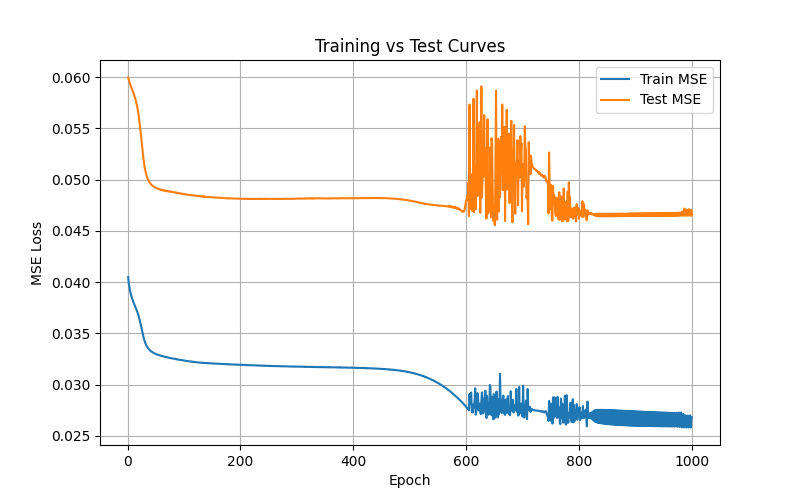
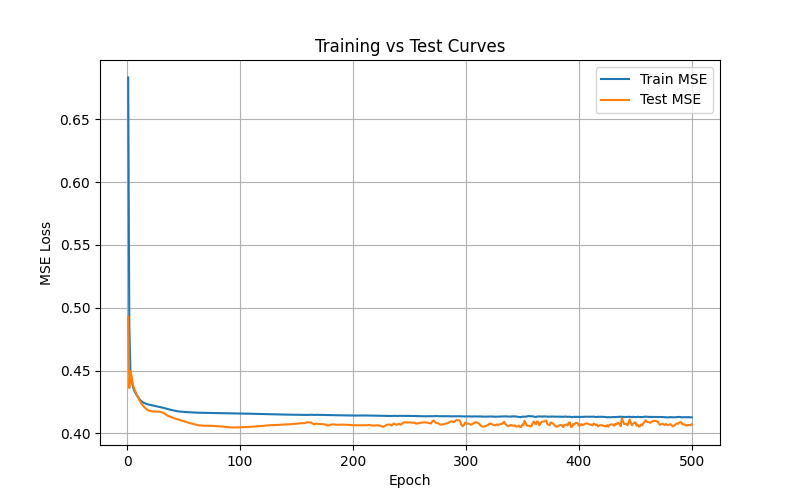
more edits

diff --git a/Week_9/behler_neural_network.py b/Week_9/behler_neural_network.py
@@ -14,6 +14,35 @@ eta_G2=0.01
 zeta_G2=1.0
 lambda_G2=1.0
 
+radial_params = [
+    {"eta": 0.02, "Rs": 0.0}, {"eta": 0.02, "Rs": 1.0}, {"eta": 0.02, "Rs": 2.0}, {"eta": 0.02, "Rs": 3.0}, {"eta": 0.02, "Rs": 4.0},
+    {"eta": 0.05, "Rs": 0.0}, {"eta": 0.05, "Rs": 1.0}, {"eta": 0.05, "Rs": 2.0}, {"eta": 0.05, "Rs": 3.0}, {"eta": 0.05, "Rs": 4.0},
+    {"eta": 0.10, "Rs": 0.0}, {"eta": 0.10, "Rs": 1.0}, {"eta": 0.10, "Rs": 2.0}, {"eta": 0.10, "Rs": 3.0}, {"eta": 0.10, "Rs": 4.0},
+    {"eta": 0.20, "Rs": 0.0}, {"eta": 0.20, "Rs": 1.0}, {"eta": 0.20, "Rs": 2.0}, {"eta": 0.20, "Rs": 3.0}, {"eta": 0.20, "Rs": 4.0},
+]
+
+# === Angular symmetry functions (24 total) ===
+# Grid: 3 etas × 4 zetas × 2 lambdas
+angular_params = [
+    # eta = 0.001
+    {"eta": 0.001, "zeta": 1, "lam":  1}, {"eta": 0.001, "zeta": 1, "lam": -1},
+    {"eta": 0.001, "zeta": 2, "lam":  1}, {"eta": 0.001, "zeta": 2, "lam": -1},
+    {"eta": 0.001, "zeta": 4, "lam":  1}, {"eta": 0.001, "zeta": 4, "lam": -1},
+    {"eta": 0.001, "zeta": 8, "lam":  1}, {"eta": 0.001, "zeta": 8, "lam": -1},
+    # eta = 0.005
+    {"eta": 0.005, "zeta": 1, "lam":  1}, {"eta": 0.005, "zeta": 1, "lam": -1},
+    {"eta": 0.005, "zeta": 2, "lam":  1}, {"eta": 0.005, "zeta": 2, "lam": -1},
+    {"eta": 0.005, "zeta": 4, "lam":  1}, {"eta": 0.005, "zeta": 4, "lam": -1},
+    {"eta": 0.005, "zeta": 8, "lam":  1}, {"eta": 0.005, "zeta": 8, "lam": -1},
+    # eta = 0.010
+    {"eta": 0.010, "zeta": 1, "lam":  1}, {"eta": 0.010, "zeta": 1, "lam": -1},
+    {"eta": 0.010, "zeta": 2, "lam":  1}, {"eta": 0.010, "zeta": 2, "lam": -1},
+    {"eta": 0.010, "zeta": 4, "lam":  1}, {"eta": 0.010, "zeta": 4, "lam": -1},
+    {"eta": 0.010, "zeta": 8, "lam":  1}, {"eta": 0.010, "zeta": 8, "lam": -1},
+]
+
+
+
 def cutoff_cos(r, Rc):
     if r > Rc:
         return 0.0
@@ -81,32 +110,68 @@ class SymmetryFunctionLayer(nn.Module):
         self.zeta_G2 = zeta_G2
         self.lambda_G2 = lambda_G2
 
+    # def forward(self, R_batch):
+    #     # R_batch shape: (batch, 2) → [pos1, pos2]
+    #     feats = []
+    #     for R in R_batch:
+    #         # Convert to "atom list" form for your G1/G2 functions
+    #         R_np = [[R[0].item()], [R[1].item()]]  # 2 atoms in 1D
+    #         g1 = G1_single(R_np, self.Rc, self.eta_G1, self.Rs_G1)
+    #         g2 = G2_single(R_np, self.Rc, self.eta_G2, self.zeta_G2, self.lambda_G2)
+    #         feats.append([g1[0], g2[0]])  # features for atom 1
+    #     return torch.tensor(feats, dtype=torch.float32, device=R_batch.device)
+
     def forward(self, R_batch):
-        # R_batch shape: (batch, 2) → [pos1, pos2]
         feats = []
         for R in R_batch:
-            # Convert to "atom list" form for your G1/G2 functions
             R_np = [[R[0].item()], [R[1].item()]]  # 2 atoms in 1D
-            g1 = G1_single(R_np, self.Rc, self.eta_G1, self.Rs_G1)
-            g2 = G2_single(R_np, self.Rc, self.eta_G2, self.zeta_G2, self.lambda_G2)
-            feats.append([g1[0], g2[0]])  # features for atom 1
+            atom_feats = []
+            for p in radial_params:
+                g1 = G1_single(R_np, Rc, p["eta"], p["Rs"])
+                atom_feats.append(g1[0])
+            for p in angular_params:
+                g2 = G2_single(R_np, Rc, p["eta"], p["zeta"], p["lam"])
+                atom_feats.append(g2[0])
+            feats.append(atom_feats)
+
         return torch.tensor(feats, dtype=torch.float32, device=R_batch.device)
+
+# class AtomicNetwork(nn.Module):
+#     def __init__(self, hidden_size=64):
+#         super().__init__()
+
+#         self.sym_layer = SymmetryFunctionLayer()
+#         num_inputs = len(radial_params) + len(angular_params)  
+#         self.W1 = nn.Linear(num_inputs, hidden_size)
+#         self.W2 = nn.Linear(hidden_size, hidden_size)
+#         self.W3 = nn.Linear(hidden_size, 1)
+
+#     def forward(self, R):
+#         x = self.sym_layer(R)   # compute [G1, G2]
+#         x = torch.tanh(self.W1(x))
+#         x = torch.tanh(self.W2(x))
+#         x = self.W3(x)
+#         return x
 
 
 class AtomicNetwork(nn.Module):
-    def __init__(self, num_inputs=2, hidden_size=15):
+    def __init__(self, hidden_size=128):
         super().__init__()
         self.sym_layer = SymmetryFunctionLayer()
+        num_inputs = len(radial_params) + len(angular_params)  # 44 here
         self.W1 = nn.Linear(num_inputs, hidden_size)
         self.W2 = nn.Linear(hidden_size, hidden_size)
-        self.W3 = nn.Linear(hidden_size, 1)
-
+        self.W3 = nn.Linear(hidden_size, hidden_size)
+        self.W4 = nn.Linear(hidden_size, 1)
     def forward(self, R):
-        x = self.sym_layer(R)   # compute [G1, G2]
+        x = self.sym_layer(R)
         x = torch.tanh(self.W1(x))
         x = torch.tanh(self.W2(x))
-        x = self.W3(x)
+        x = torch.tanh(self.W3(x))
+        x = self.W4(x)
         return x
+
+
 
 class Dataset(Dataset):
     def __init__(self, df):
@@ -158,31 +223,32 @@ def evaluate(net, dataloader):
 # torch.manual_seed(0)
 
 fpath = "./simulation_data_2_particles.csv"
-# fpath = "./Week_8/x1_times_x2.csv"
 df = pd.read_csv(fpath)
-df = df.iloc[:10000]
+df = df.iloc[:80000]
 
 split = int(len(df) * 0.8)
+df = df.sample(frac=1.0, random_state=42).reset_index(drop=True)
+
 
 train_df = df.iloc[:split]
 test_df = df.iloc[split:]
 print("Length of train", len(train_df))
 print("Length of test", len(test_df))
 
-net = AtomicNetwork(2, 15)
+net = AtomicNetwork(128)
 
 train_dataset = Dataset(train_df)
 test_dataset = Dataset(test_df)
 
-train_dataloader = DataLoader(train_dataset, batch_size=32)
-test_dataloader = DataLoader(test_dataset, batch_size=32)
+train_dataloader = DataLoader(train_dataset, batch_size=64)
+test_dataloader = DataLoader(test_dataset, batch_size=64)
 
 
-lr = 1e-3
+lr = 5e-4
 optimizer = torch.optim.Adam(net.parameters(), lr=lr)
 
 
-epochs = 1000
+epochs = 500
 
 train_curve = []
 test_curve  = []
